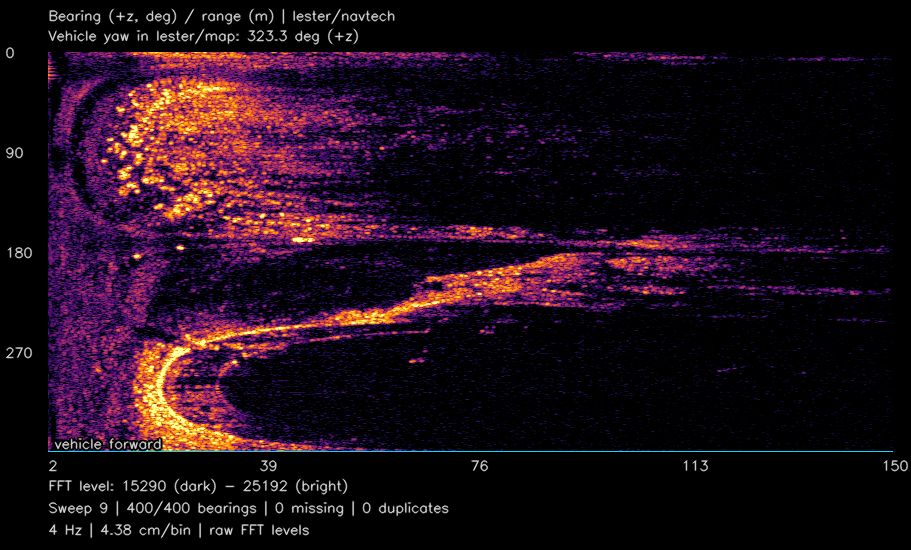
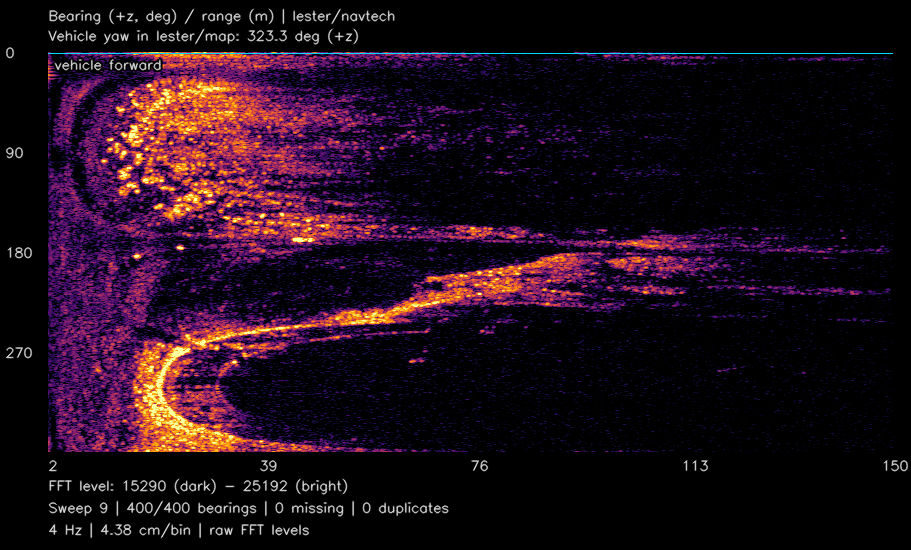
Correct TAMU planar radar mounting convention

Changed region(s): [[0.0615, 0.7727, 0.1844, 0.8345], [0.0615, 0.0927, 0.1844, 0.1545]]

diff --git a/README.md b/README.md
@@ -60,7 +60,7 @@ and its configuration and publishes two `bgr8` display images:
 Set `robot_frame` and `heading_frame` to enable the TF overlays; the TAMU launch
 sets `lester/base` and `lester/map`. Yaw is counterclockwise around reference +z
 from reference +x, not a geographic compass heading. TF is used for annotations;
-image pixels stay in the radar frame. The upside-down TAMU mount is respected
+image pixels stay in the radar frame. The full mounting rotation is respected
 when projecting the vehicle's forward axis into that frame.
 
 The default display range is 2–150 m. Range columns are reduced to at most
@@ -179,6 +179,18 @@ if set, it requires that same input frame. It does not transform coordinates.
 Use TF for mounting transforms. The optional `azimuth_offset_degrees` adjusts
 derived scan/cloud bearings, not the canonical FFT data. Give the visualizer
 the same value to keep its Cartesian view aligned.
+
+The TAMU workspace's provisional mount uses `radar_mount_roll=0.0` so the
+radar's +y axis remains leftward in the robot frame. A roll of approximately π
+around +x reverses +y and +z, horizontally mirroring a planar cloud/scan even
+when the radar-frame images look correct. The earlier LWLRF-derived 3.14 rad
+roll was removed following that observed mismatch. Translation and yaw remain
+provisional; a physical calibration should replace the placeholder transform.
+The workspace correction is preserved in [docs/tamu_planar_mount.patch](docs/tamu_planar_mount.patch)
+because the surrounding TAMU playback workspace is not part of this repository.
+Apply that patch from a workspace root still using the old roll, then rebuild
+`lester_description` and `tamu_bag_viz` and restart playback. It updates both
+the static TF launch default and the robot model's matching joint default.
 
 Sweeps never mix configuration versions, range-bin counts, sample depths, or
 frames. Configuration changes finish the preceding sweep with its original

diff --git a/docs/playback_validation.md b/docs/playback_validation.md
@@ -129,3 +129,23 @@ real DDS subscribers. Message dimensions, range count, period and radar frame
 were checked. All launch processes exited cleanly after a single parent SIGINT.
 This exercises the installed pipeline and namespace handling, but does not
 validate the entire bag, detection accuracy, or the RViz GUI.
+
+## Planar mounting correction (2026-10-01)
+
+The cloud appeared horizontally mirrored relative to the correct radar-frame
+images. The provisional LWLRF-derived roll of 3.14 rad reverses the mounting
+frame's +y direction: a return at radar `(0, 10, 0)` becomes approximately
+`(-0.225, -9.997, 0.016)` after that rotation and the -0.0225 rad yaw, before
+translation. With roll 0, it becomes `(0.225, 9.997, 0)`, preserving left/right.
+
+The workspace launch and robot-description defaults now use roll 0. The
+[workspace patch](tamu_planar_mount.patch) preserves both edits in this driver
+repository. The historical `LWLRF` source is unchanged. This corrects the
+display convention; translation and yaw still require physical calibration.
+The image projection and point extraction formulas are unchanged. The previews
+were regenerated with the corrected mount for their TF-derived forward markers.
+
+Validation expands the installed robot Xacro, checks agreement with the launch
+default, and verifies that +y retains positive mounting-frame y. A second
+headless DDS playback check also verifies the live static TF has zero roll and
+pitch while delivering the namespaced radar scan, cloud and image products.
